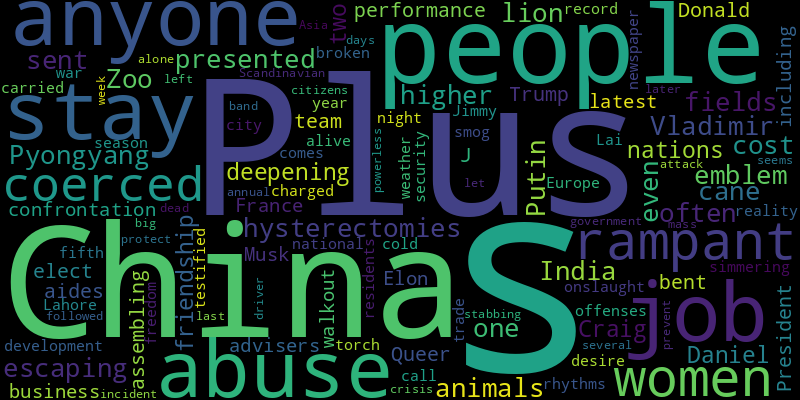
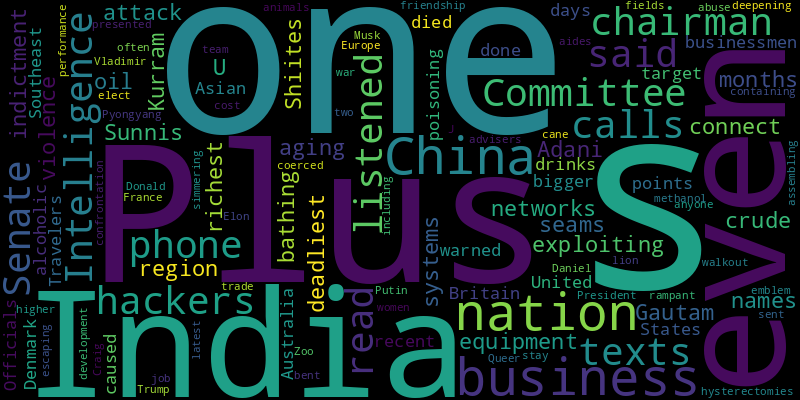
chore(bot): 😱 auto commit

diff --git a/README.md b/README.md
@@ -2,41 +2,41 @@
 Auto RSS New York Times and Generate Word Cloud
 
 ## New York Times Global News
-* The U.S. veto at the U.N. came as the Biden administration’s envoy in Lebanon reported “additional progress” on cease-fire talks in the war between Israel and Hezbollah.
-* The decision is the latest in a series of moves by the U.S. and Russia that have escalated tensions between the two.
-* The Biden administration has agreed to send the weapons to Ukraine, despite their reputation for killing and maiming civilians.
-* Before Donald J. Trump takes office, the West wants to call out Iran for failing to adhere to treaty obligations to be transparent about its nuclear past and present.
-* The envoy, Amos Hochstein, held a second day of talks in the Lebanese capital to seek a truce between Israel and Hezbollah. The militant group’s leader said peace now depended on Israel.
-* Kizza Besigye, a former presidential candidate, went missing over the weekend as he visited the Kenyan capital, reappearing days later in military custody back in Uganda.
-* The unusual alert came a day after Ukraine used American-made ballistic missiles to strike Russian territory for the first time. At least two other Western embassies closed for the day after the warning.
-* Pope Francis’s down-to-earth style has become a trademark of his papacy. New rules for papal burials are another step to seal it into his legacy.
-* Overextended Ukrainian forces lack manpower and artillery against Russian forces willing to absorb staggering casualties.
-* Middle East Airlines has managed to fly through regional and civil wars since the 1960s. And it is still in the skies today.
+* The I.C.C. rejected Israel’s challenges to its jurisdiction and also issued a warrant for a top Hamas official. Its chief prosecutor is seeking the arrests for war crimes in Israel and Gaza.
+* One of Prime Minister Benjamin Netanyahu’s advisers is accused of leaking a top-secret document to a German tabloid in an attempt to influence public sentiment on hostage negotiations.
+* Former President Jair Bolsonaro could face criminal charges over accusations that he was involved in plans to stage a coup after losing the 2022 elections.
+* The intermediate-range missile did not carry nuclear weapons, but it is part of a strategic arsenal that is capable of delivering them.
+* The prime minister had been fired for criticizing the country’s junta.
+* The attack was one of the deadliest in months of violence between Sunnis and Shiites in the Kurram region.
+* So far, direct attacks between the two adversaries have been precise and calculated. Whether that lasts is another question.
+* Why would anyone stay in a job where abuse is rampant and women are coerced into hysterectomies? Because the cost of escaping India’s cane fields is often even higher.
+* The government said new rules could give legal status — and work permits — to about 300,000 people a year over the next three years to address gaps in the labor market.
+* The envoy, Amos Hochstein, was in Israel and planned to meet with Prime Minister Benjamin Netanyahu, seeking a truce in the country’s war with the militant group Hezbollah.
 
 ![Global](./global.png)
 ## New York Times United States News
-* Donald J. Trump’s grass-roots opponents search for a new playbook as they reckon with how little they accomplished during his first term.
-* The “atmospheric river” storm disrupted travel and left at least two people dead in Northern California and the Pacific Northwest.
-* The sentencing came hours after a judge issued a guilty verdict. The case became a flashpoint in the bitter national debate over immigration policy.
-* The decision is the latest sign that federal health officials want more research on medical marijuana as its use grows.
-* Conservatives in Florida have moved from explosive politics to subtler tactics to uproot liberal “indoctrination” in higher education by removing classes like Sociology from core requirements.
-* A jury in federal court concluded that a white police officer used excessive force and violated the constitutional rights of Botham Shem Jean, a Black man, in 2018.
-* President-elect Donald J. Trump’s choice for defense secretary was never charged with a crime and vehemently denied to the police that a sexual encounter was coerced.
-* The G.O.P. united behind Nick Begich III, the conservative son of a prominent liberal Alaska political family, to beat Representative Mary Peltola, a Democrat.
-* The legislation failed resoundingly but highlighted a growing Democratic divide over whether the United States should withhold some weapons to register its disapproval of Israel’s war tactics.
-* The bill, known as the PRESS Act, would codify protections against federal investigators seizing reporters’ records. It is now less likely the legislation will clear the Senate before the current session ends.
+* Flash demonstrations intended to spread fear and anxiety are happening almost weekly, say experts who track the incidents.
+* Linda McMahon, who ran World Wrestling Entertainment for decades, was accused in the lawsuit of not preventing one of the organization’s employees from victimizing children who helped set up wrestling rings.
+* President-elect Donald J. Trump’s pick to lead the Defense Department was described by peers as a skillful soldier who became embittered by military dysfunction.
+* Cities have paid out billions of dollars in police misconduct cases, but depending on the case, families may not receive any money at all. A recent $100 million penalty for a police shooting case in Dallas may never lead to a payout.
+* The latest vote count shows that Donald J. Trump won the popular vote by one of the smallest margins since the 19th century. But Mr. Trump claims a “powerful mandate.”
+* No matter whether they prefer a trial or swift resolution, relatives of victims of the attacks consider the on-again, off-again plea deal to be cruel.
+* Florida’s first female state attorney general, she became a member of Donald Trump’s impeachment defense team and backed his false claims of election fraud in 2020.
+* The chairman of the Senate Intelligence Committee said hackers listened to phone calls and read texts by exploiting aging equipment and seams in the networks that connect systems.
+* President-elect Donald J. Trump’s new choice to be attorney general joined a powerhouse Republican firm after her second term as Florida’s attorney general.
+* The rise of the Republican representative from Georgia signals the ascendancy of the MAGA wing of the G.O.P. in Congress.
 
 ![US](./usnews.png)
 ## New York Times Asia News
+* The chairman of the Senate Intelligence Committee said hackers listened to phone calls and read texts by exploiting aging equipment and seams in the networks that connect systems.
+* Plus, bathing in crude oil.
+* The attack was one of the deadliest in months of violence between Sunnis and Shiites in the Kurram region.
+* The U.S. indictment names Gautam Adani, one of India’s richest businessmen, but it points to an even bigger target: how business is done there.
+* Travelers from the United States, Britain, Australia and Denmark have died in the Southeast Asian nation in recent days. Officials warned of poisoning caused by alcoholic drinks containing methanol.
 * Why would anyone stay in a job where abuse is rampant and women are coerced into hysterectomies? Because the cost of escaping India’s cane fields is often even higher.
 * Vladimir Putin also presented a lion to Pyongyang Zoo, one of the more than 70 animals he sent as an emblem of the deepening friendship between the two nations.
 * Plus, Daniel Craig’s performance in “Queer.”
 * President-elect Donald J. Trump is assembling a team of aides bent on confrontation with China. But he also has advisers who do business there, including Elon Musk.
 * The walkout in France is the latest development in a simmering trade war between Europe and China.
-* Lahore comes alive at night. But this year’s record onslaught of cold-weather smog — residents call it the “fifth season” — has broken its rhythms.
-* Jimmy Lai, who is charged with national security offenses, testified that his newspaper “carried a torch to the reality” of people’s desire for freedom in the city.
-* Plus, the Scandinavian band that’s big in Asia.
-* The government seems powerless to protect its citizens from this annual crisis, let alone prevent it.
-* The incident followed an attack by a driver last week that left 35 people dead, and a mass stabbing several days later.
 
 ![Asian](./asian.png)

diff --git a/archive/2024-11-21.md b/archive/2024-11-21.md
@@ -1,0 +1,42 @@
+# NewsArchive
+Auto RSS New York Times and Generate Word Cloud
+
+## New York Times Global News
+* The U.S. veto at the U.N. came as the Biden administration’s envoy in Lebanon reported “additional progress” on cease-fire talks in the war between Israel and Hezbollah.
+* The decision is the latest in a series of moves by the U.S. and Russia that have escalated tensions between the two.
+* The Biden administration has agreed to send the weapons to Ukraine, despite their reputation for killing and maiming civilians.
+* Before Donald J. Trump takes office, the West wants to call out Iran for failing to adhere to treaty obligations to be transparent about its nuclear past and present.
+* The envoy, Amos Hochstein, held a second day of talks in the Lebanese capital to seek a truce between Israel and Hezbollah. The militant group’s leader said peace now depended on Israel.
+* Kizza Besigye, a former presidential candidate, went missing over the weekend as he visited the Kenyan capital, reappearing days later in military custody back in Uganda.
+* The unusual alert came a day after Ukraine used American-made ballistic missiles to strike Russian territory for the first time. At least two other Western embassies closed for the day after the warning.
+* Pope Francis’s down-to-earth style has become a trademark of his papacy. New rules for papal burials are another step to seal it into his legacy.
+* Overextended Ukrainian forces lack manpower and artillery against Russian forces willing to absorb staggering casualties.
+* Middle East Airlines has managed to fly through regional and civil wars since the 1960s. And it is still in the skies today.
+
+![Global](./global.png)
+## New York Times United States News
+* Donald J. Trump’s grass-roots opponents search for a new playbook as they reckon with how little they accomplished during his first term.
+* The “atmospheric river” storm disrupted travel and left at least two people dead in Northern California and the Pacific Northwest.
+* The sentencing came hours after a judge issued a guilty verdict. The case became a flashpoint in the bitter national debate over immigration policy.
+* The decision is the latest sign that federal health officials want more research on medical marijuana as its use grows.
+* Conservatives in Florida have moved from explosive politics to subtler tactics to uproot liberal “indoctrination” in higher education by removing classes like Sociology from core requirements.
+* A jury in federal court concluded that a white police officer used excessive force and violated the constitutional rights of Botham Shem Jean, a Black man, in 2018.
+* President-elect Donald J. Trump’s choice for defense secretary was never charged with a crime and vehemently denied to the police that a sexual encounter was coerced.
+* The G.O.P. united behind Nick Begich III, the conservative son of a prominent liberal Alaska political family, to beat Representative Mary Peltola, a Democrat.
+* The legislation failed resoundingly but highlighted a growing Democratic divide over whether the United States should withhold some weapons to register its disapproval of Israel’s war tactics.
+* The bill, known as the PRESS Act, would codify protections against federal investigators seizing reporters’ records. It is now less likely the legislation will clear the Senate before the current session ends.
+
+![US](./usnews.png)
+## New York Times Asia News
+* Why would anyone stay in a job where abuse is rampant and women are coerced into hysterectomies? Because the cost of escaping India’s cane fields is often even higher.
+* Vladimir Putin also presented a lion to Pyongyang Zoo, one of the more than 70 animals he sent as an emblem of the deepening friendship between the two nations.
+* Plus, Daniel Craig’s performance in “Queer.”
+* President-elect Donald J. Trump is assembling a team of aides bent on confrontation with China. But he also has advisers who do business there, including Elon Musk.
+* The walkout in France is the latest development in a simmering trade war between Europe and China.
+* Lahore comes alive at night. But this year’s record onslaught of cold-weather smog — residents call it the “fifth season” — has broken its rhythms.
+* Jimmy Lai, who is charged with national security offenses, testified that his newspaper “carried a torch to the reality” of people’s desire for freedom in the city.
+* Plus, the Scandinavian band that’s big in Asia.
+* The government seems powerless to protect its citizens from this annual crisis, let alone prevent it.
+* The incident followed an attack by a driver last week that left 35 people dead, and a mass stabbing several days later.
+
+![Asian](./asian.png)
